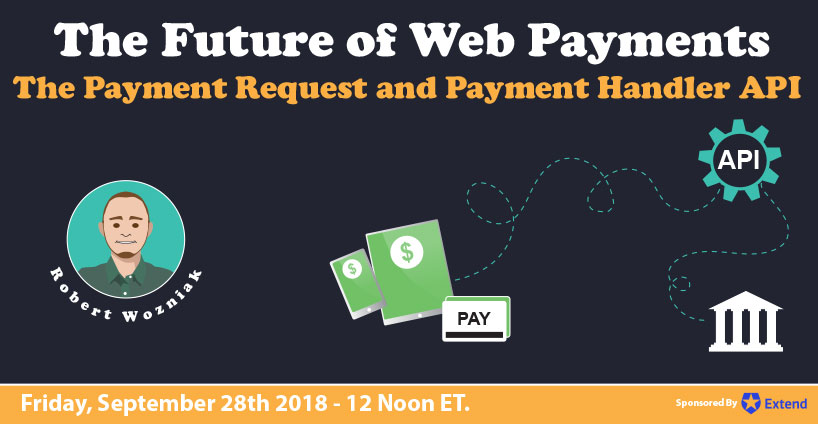
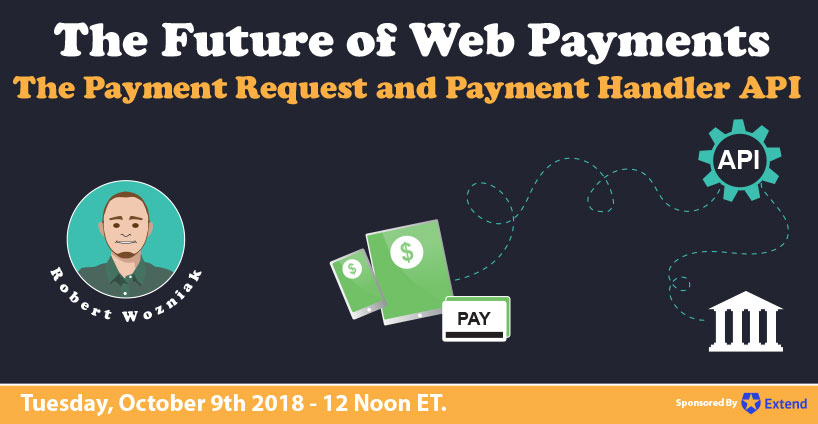
rescheduled

Changed region(s): [[0.0306, 0.9198, 0.5807, 0.9811]]

diff --git a/content/events/future-of-web-payments.md b/content/events/future-of-web-payments.md
@@ -1,8 +1,8 @@
 ---
 title: "The Future of Web Payments"
-date: 2018-09-28T18:52:51-04:00
-starttime: "9/28 12:00pm ET"
-endtime: "9/28 1:00pm ET"
+date: 2018-10-09T18:52:51-04:00
+starttime: "10/9 12:00pm ET"
+endtime: "10/9 1:00pm ET"
 days: 1
 location: "Online"
 cost: "0"
